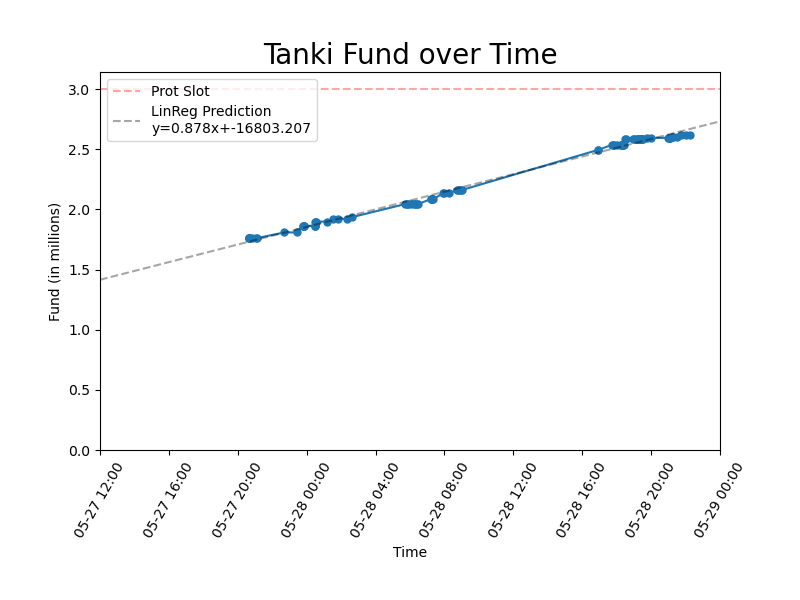
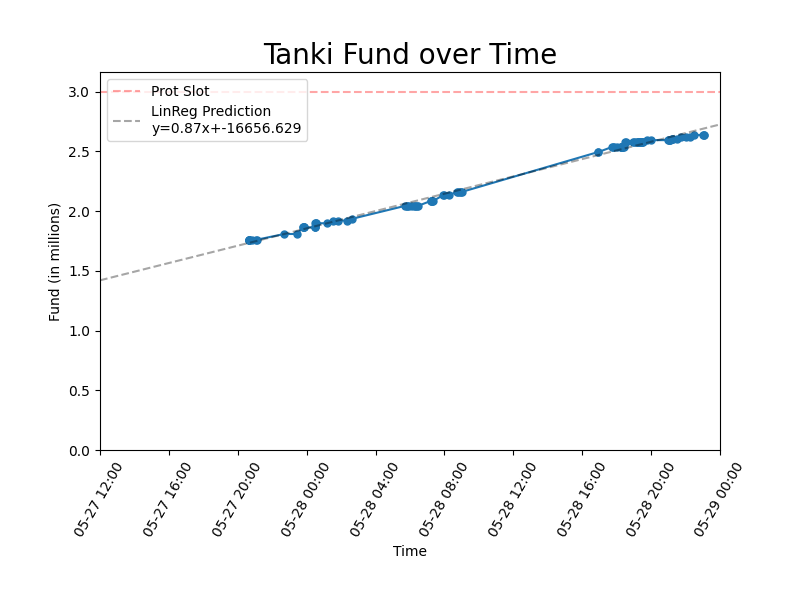
regression/prediction

diff --git a/src/templates/index.html b/src/templates/index.html
@@ -32,8 +32,8 @@
             <th>Time to Next Checkpoint</th>
         </tr>
         <tr>
-            <td>{{current_fund}}</td>
-            <td>{{change}}</td>
+            <td>{{next_check}}</td>
+            <td>{{tnext_check}}</td>
         </tr>
     </table>
     <h3 style="text-align: center;">Site Status</h3>

diff --git a/src/scraper.py b/src/scraper.py
@@ -101,9 +101,9 @@ def next_checkpoint(reward=False):
     x_time = mdates.datestr2num(x)
     m, b = regression(x_time, y)
     c_next = [c for c in CHECKPOINTS if c > max(y)][0]
-    
+    idx = CHECKPOINTS.index(c_next)
     if reward:
-        return REWARDS[0]
+        return REWARDS[idx]
     x_next = mdates.num2date((c_next - b) / m)
     x_next = x_next.replace(tzinfo=datetime.timezone.utc)
     t_next = tdelta_format(x_next - datetime.datetime.now(datetime.timezone.utc))
@@ -141,10 +141,7 @@ def visualize():
     m, b = regression(x_time, y)
     xrange = np.linspace(mdates.datestr2num('2022-05-27 12:00:00'), mdates.datestr2num(get_xlim().to_pydatetime().strftime('%Y-%m-%d %H:%M:%S')))
     plt.plot(xrange, m*xrange+b, color='black', linestyle="--", alpha=0.35, label=f"LinReg Prediction\ny={np.round(m, 3)}x+{np.round(b, 3)}")
-    plt.legend(loc='upper left')
-    plt.savefig(os.path.join(CWD, "visualization.png"))
-    plt.show()
-    plt.legend(loc=2, fontsize=12)
+    plt.legend(loc=2, fontsize=8)
     return fig
 
 """

diff --git a/src/app.py b/src/app.py
@@ -12,8 +12,9 @@ app = Flask(__name__)
 @app.route("/")
 def index():
     return render_template("index.html", current_fund = scraper.get_entry(),
-    change=scraper.fund_delta(), last_upd=scraper.last_entry_time(),
-    status=scraper.scrape(checkstatus=True))
+    change=scraper.fund_delta(),
+    next_check = scraper.next_checkpoint(reward=True), tnext_check=scraper.next_checkpoint(),
+    last_upd=scraper.last_entry_time(),status=scraper.scrape(checkstatus=True))
 
 @app.route('/plot.png')
 def plot_png():
